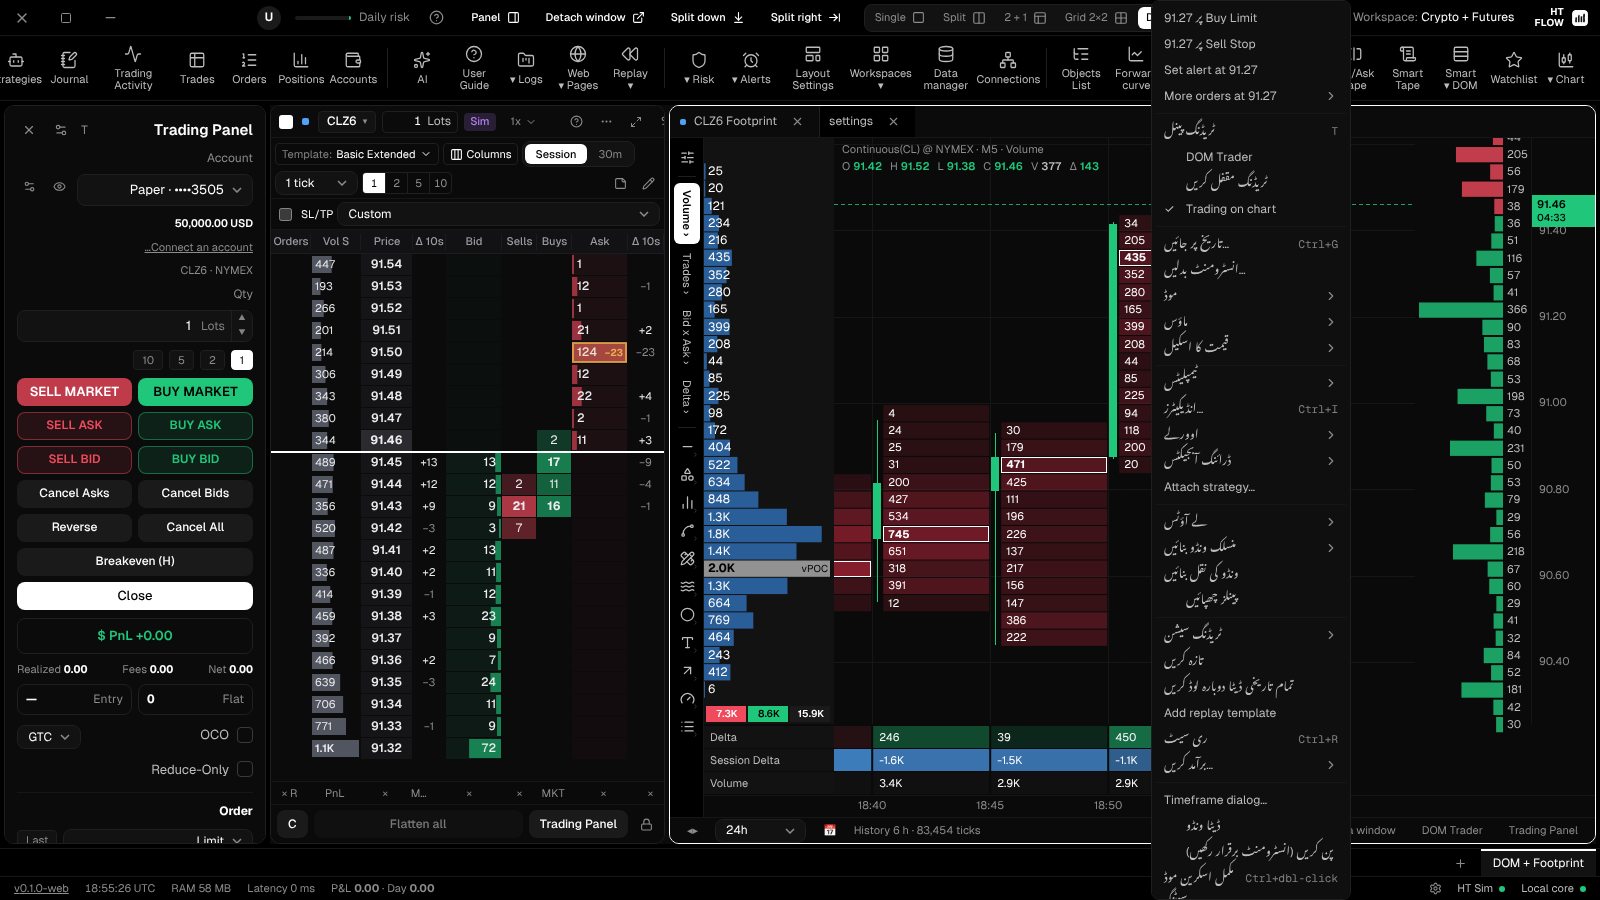
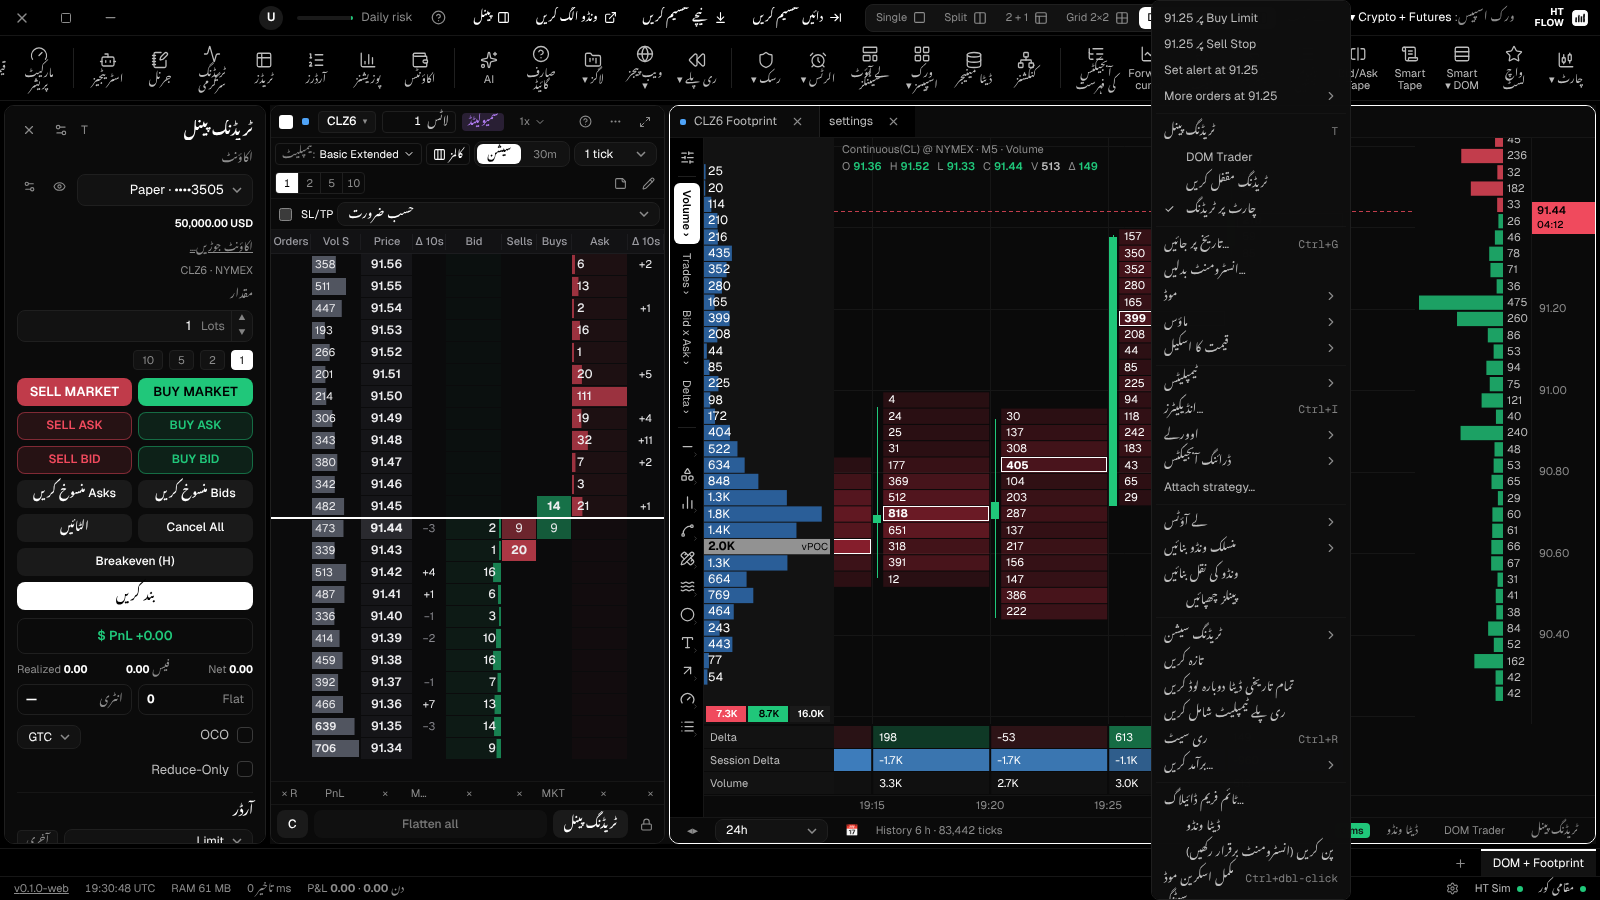
e2e: Urdu spec checks Settings heading and ribbon labels, screenshot
Claude-Session: https://claude.ai/code/session_019ieFfTJx4AmvyGwNfC9DmJ

diff --git a/apps/desktop/e2e/urdu-rtl.spec.ts b/apps/desktop/e2e/urdu-rtl.spec.ts
@@ -40,6 +40,17 @@ test('Urdu: language picker + palette switch to RTL, translated menu, charts sta
   await expect(page.locator('html')).toHaveAttribute('dir', 'rtl');
   await expect(page.locator('html')).toHaveAttribute('lang', 'ur');
 
+  // The Settings page heading and its section list switch to Urdu, and so does the ribbon.
+  await page.keyboard.press('Control+,');
+  const settingsWin = page.getByTestId('settings-window');
+  await expect(settingsWin.locator('h2').first()).toHaveText('عمومی');
+  await expect(settingsWin.getByRole('button', { name: 'ظاہری شکل' })).toBeVisible();
+  await expect(settingsWin.getByText('زبان اور خطہ')).toBeVisible();
+  await expect(page.getByTestId('ribbon-watchlist')).toContainText('واچ لسٹ');
+  await expect(page.getByTestId('ribbon-connections')).toContainText('کنکشنز');
+  await expect(page.getByRole('navigation', { name: 'ربن' })).toBeVisible();
+  await page.screenshot({ path: '../../docs/screenshots/urdu-settings.png' });
+
   // The chart survives the live switch, stays LTR, and its right-click menu is in Urdu.
   // Settings shares a tab group with the chart: bring the chart tab back.
   await page.getByText('CLZ6 Footprint', { exact: true }).first().click();
@@ -57,9 +68,9 @@ test('Urdu: language picker + palette switch to RTL, translated menu, charts sta
 
   // Command Palette switches back.
   await page.keyboard.press('Control+k');
-  const p2 = page.getByRole('dialog', { name: 'Command palette' });
-  await p2.getByPlaceholder('Search commands, symbols, layouts…').fill('Language');
-  await p2.getByRole('option', { name: /Language: English/ }).click();
+  const p2 = page.getByRole('dialog', { name: 'کمانڈ پیلیٹ' });
+  await p2.getByPlaceholder('کمانڈز، سمبلز، لے آؤٹس تلاش کریں…').fill('Language');
+  await p2.getByRole('option', { name: /زبان: English/ }).click();
   await expect(page.locator('html')).toHaveAttribute('dir', 'ltr');
   await expect(page.locator('html')).toHaveAttribute('lang', 'en');
   expect(errors).toEqual([]);
